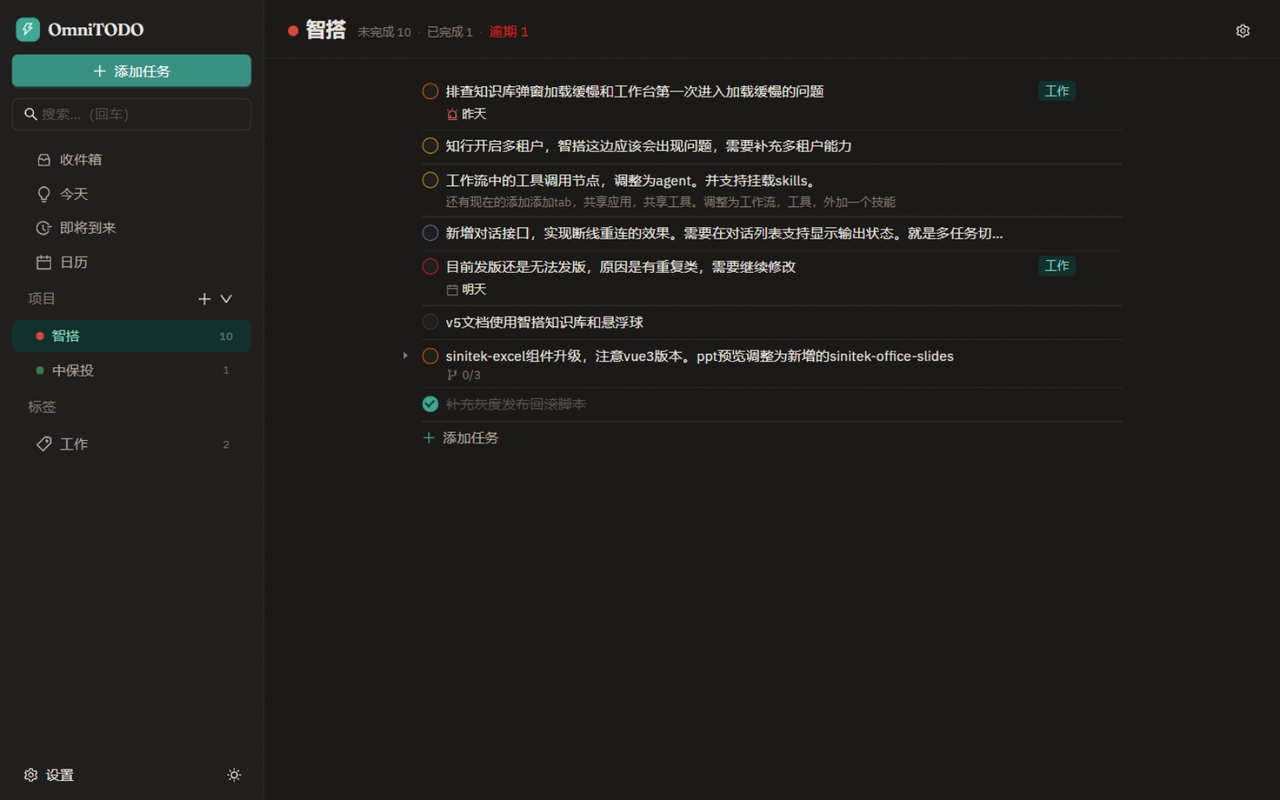
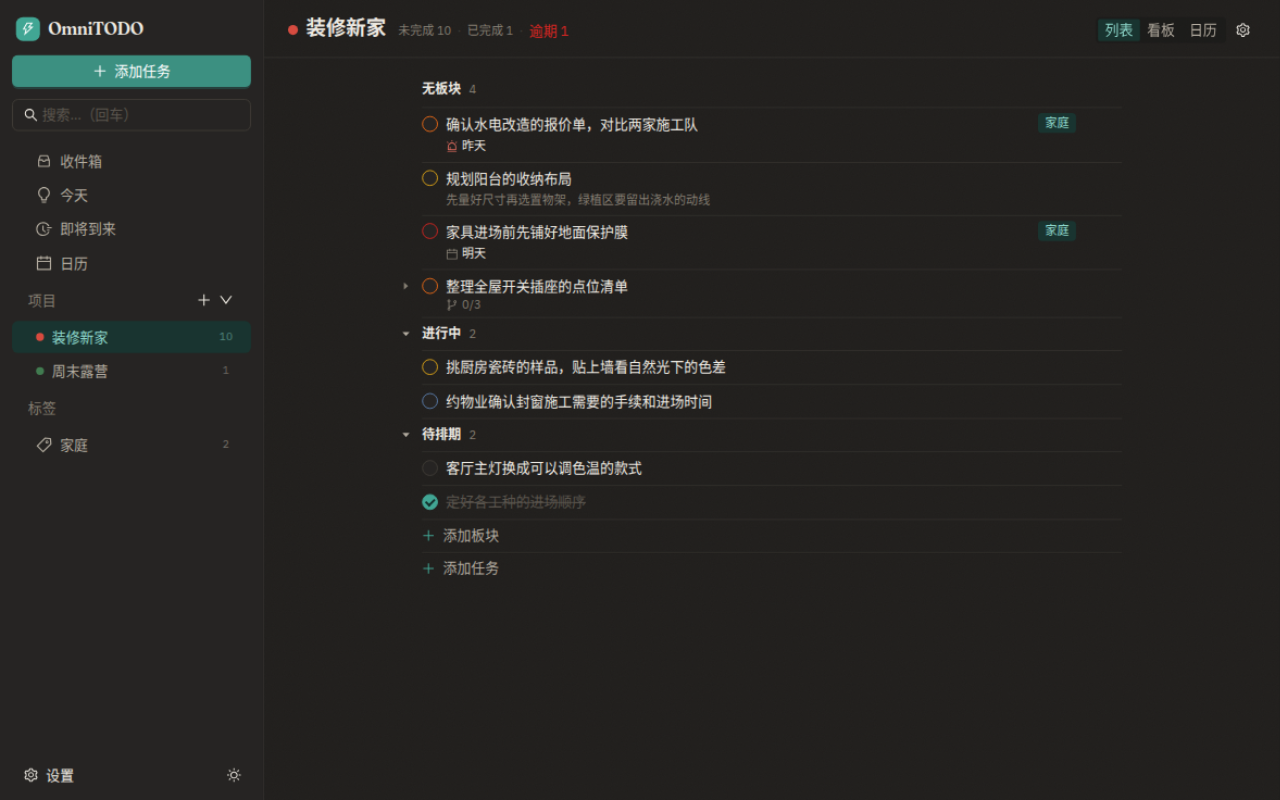
docs(readme): 截图改用虚构示例数据，预览桩同步替换真实项目名
README 的深/浅两张截图此前渲染的是预览桩里的真实工作项目与任务
（智搭、中保投、sinitek 等），公开仓库不该带这些内容。桩数据换成
虚构的「装修新家 / 周末露营」（家庭标签），结构原样保留：同样的
优先级、逾期/明天日期、板块分组、三层子任务嵌套与已完成行，覆盖面
不变；截图在 dev-preview.html 上以 1280x800 列表视图重拍。

diff --git a/ui/src/dev/mockIpc.ts b/ui/src/dev/mockIpc.ts
@@ -70,12 +70,12 @@ function makeTask(over: Partial<TaskDto> & Pick<TaskDto, "id" | "title">): TaskD
   };
 }
 
-const WORK = "t-work";
+const HOME = "t-home";
 
 let projects: Omit<ProjectDto, "stats">[] = [
   {
     id: "p-zhi",
-    name: "智搭",
+    name: "装修新家",
     description: null,
     color: "#d8493c",
     icon: null,
@@ -87,7 +87,7 @@ let projects: Omit<ProjectDto, "stats">[] = [
   },
   {
     id: "p-zhong",
-    name: "中保投",
+    name: "周末露营",
     description: null,
     color: "#3f7c4f",
     icon: null,
@@ -103,18 +103,18 @@ let tasks: TaskDto[] = [
   makeTask({
     id: "t1",
     project_id: "p-zhi",
-    title: "排查知识库弹窗加载缓慢和工作台第一次进入加载缓慢的问题",
+    title: "确认水电改造的报价单，对比两家施工队",
     priority: "high",
     due_at: civil(-1),
     all_day: true,
     sort_order: 0,
-    tag_ids: [WORK],
-    tags: ["工作"],
+    tag_ids: [HOME],
+    tags: ["家庭"],
   }),
   makeTask({
     id: "t2",
     project_id: "p-zhi",
-    title: "知行开启多租户，智搭这边应该会出现问题，需要补充多租户能力",
+    title: "挑厨房瓷砖的样品，贴上墙看自然光下的色差",
     priority: "medium",
     section_id: "s-now",
     sort_order: 1,
@@ -122,15 +122,15 @@ let tasks: TaskDto[] = [
   makeTask({
     id: "t3",
     project_id: "p-zhi",
-    title: "工作流中的工具调用节点，调整为agent。并支持挂载skills。",
-    description: "还有现在的添加添加tab，共享应用，共享工具。调整为工作流，工具，外加一个技能",
+    title: "规划阳台的收纳布局",
+    description: "先量好尺寸再选置物架，绿植区要留出浇水的动线",
     priority: "medium",
     sort_order: 2,
   }),
   makeTask({
     id: "t4",
     project_id: "p-zhi",
-    title: "新增对话接口，实现断线重连的效果。需要在对话列表支持显示输出状态。就是多任务切换的效果",
+    title: "约物业确认封窗施工需要的手续和进场时间",
     priority: "low",
     section_id: "s-now",
     sort_order: 3,
@@ -138,25 +138,25 @@ let tasks: TaskDto[] = [
   makeTask({
     id: "t5",
     project_id: "p-zhi",
-    title: "目前发版还是无法发版，原因是有重复类，需要继续修改",
+    title: "家具进场前先铺好地面保护膜",
     priority: "urgent",
     due_at: civil(1),
     all_day: true,
     sort_order: 4,
-    tag_ids: [WORK],
-    tags: ["工作"],
+    tag_ids: [HOME],
+    tags: ["家庭"],
   }),
   makeTask({
     id: "t6",
     project_id: "p-zhi",
-    title: "v5文档使用智搭知识库和悬浮球",
+    title: "客厅主灯换成可以调色温的款式",
     section_id: "s-next",
     sort_order: 5,
   }),
   makeTask({
     id: "t7",
     project_id: "p-zhi",
-    title: "sinitek-excel组件升级，注意vue3版本。ppt预览调整为新增的sinitek-office-slides",
+    title: "整理全屋开关插座的点位清单",
     priority: "high",
     sort_order: 6,
   }),
@@ -164,14 +164,14 @@ let tasks: TaskDto[] = [
     id: "t7a",
     parent_id: "t7",
     project_id: "p-zhi",
-    title: "确认 vue3 版本兼容性",
+    title: "逐个房间核对插座的数量和安装高度",
     sort_order: 0,
   }),
   makeTask({
     id: "t7b",
     parent_id: "t7",
     project_id: "p-zhi",
-    title: "评估 ppt 预览替换成 sinitek-office-slides 的成本",
+    title: "给厨房的小家电单独留一路电",
     sort_order: 1,
   }),
   // A grandchild, so the preview exercises a nested branch (caret at depth 2).
@@ -179,20 +179,20 @@ let tasks: TaskDto[] = [
     id: "t7a1",
     parent_id: "t7a",
     project_id: "p-zhi",
-    title: "补齐升级后的回归用例",
+    title: "把弱电箱的走线图一并更新",
     sort_order: 0,
   }),
   makeTask({
     id: "t8",
     project_id: "p-zhi",
-    title: "补充灰度发布回滚脚本",
+    title: "定好各工种的进场顺序",
     status: "done",
     completed_at: SEEDED_AT + DAY,
     section_id: "s-next",
     sort_order: 7,
   }),
-  makeTask({ id: "t9", project_id: "p-zhong", title: "整理中保投数据接入清单", sort_order: 0 }),
-  makeTask({ id: "t10", title: "把设计稿里的空状态补上" }),
+  makeTask({ id: "t9", project_id: "p-zhong", title: "列出露营装备清单，检查气罐和头灯", sort_order: 0 }),
+  makeTask({ id: "t10", title: "清理订阅邮件和下载文件夹" }),
 ];
 
 let sections: SectionDto[] = [
@@ -218,7 +218,7 @@ let sections: SectionDto[] = [
   },
 ];
 
-let tags: TagDto[] = [{ id: WORK, name: "工作", color: null, count: 2 }];
+let tags: TagDto[] = [{ id: HOME, name: "家庭", color: null, count: 2 }];
 
 const settings = new Map<string, unknown>([
   ["ui.theme", "dark"],
